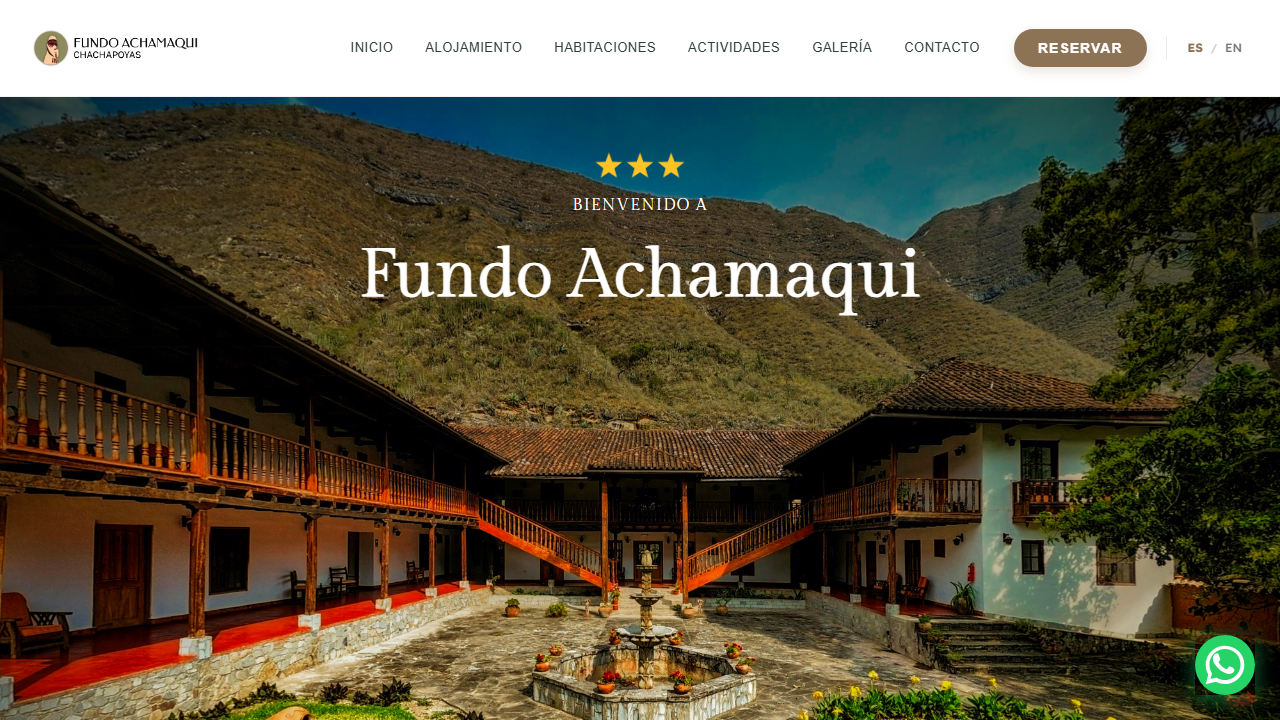
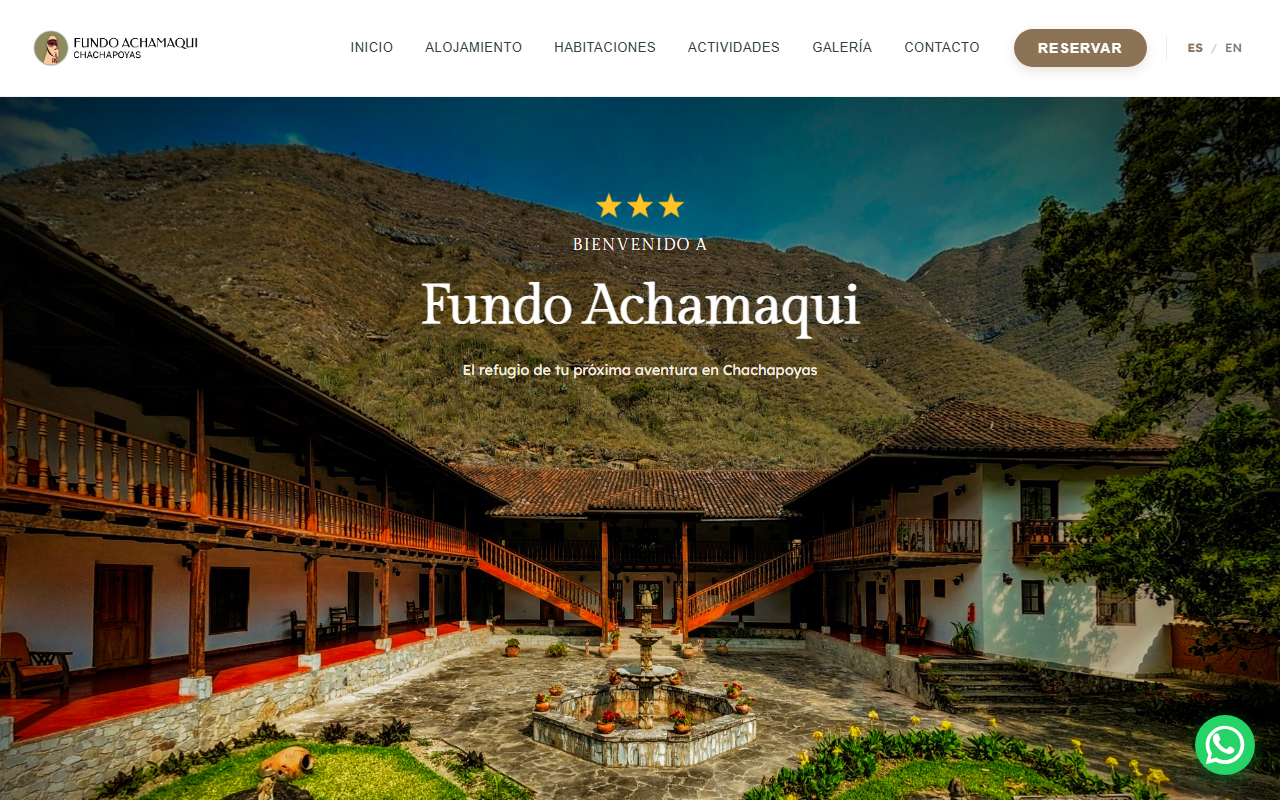
feat: add Meta Pixel, update thumbnails for Costa Blanca & Fundo Achamaqui, and optimize SEO/GEO

diff --git a/index.html b/index.html
@@ -211,13 +211,23 @@
       gtag('config', 'G-CMHBQKC8KT');
     </script>
 
-    <!-- Google Tag Manager -->
-    <script>(function(w,d,s,l,i){w[l]=w[l]||[];w[l].push({'gtm.start':
-    new Date().getTime(),event:'gtm.js'});var f=d.getElementsByTagName(s)[0],
-    j=d.createElement(s),dl=l!='dataLayer'?'&l='+l:'';j.async=true;j.src=
-    'https://www.googletagmanager.com/gtm.js?id='+i+dl;f.parentNode.insertBefore(j,f);
-    })(window,document,'script','dataLayer','GTM-5LDJJ544');</script>
-    <!-- End Google Tag Manager -->
+    <!-- Meta Pixel Code -->
+    <script>
+      !function(f,b,e,v,n,t,s)
+      {if(f.fbq)return;n=f.fbq=function(){n.callMethod?
+      n.callMethod.apply(n,arguments):n.queue.push(arguments)};
+      if(!f._fbq)f._fbq=n;n.push=n;n.loaded=!0;n.version='2.0';
+      n.queue=[];t=b.createElement(e);t.async=!0;
+      t.src=v;s=b.getElementsByTagName(e)[0];
+      s.parentNode.insertBefore(t,s)}(window, document,'script',
+      'https://connect.facebook.net/en_US/fbevents.js');
+      fbq('init', '1179857704626982');
+      fbq('track', 'PageView');
+    </script>
+    <noscript><img height="1" width="1" style="display:none"
+    src="https://www.facebook.com/tr?id=1179857704626982&ev=PageView&noscript=1"
+    /></noscript>
+    <!-- End Meta Pixel Code -->
   </head>
   <body>
     <!-- Google Tag Manager (noscript) -->
